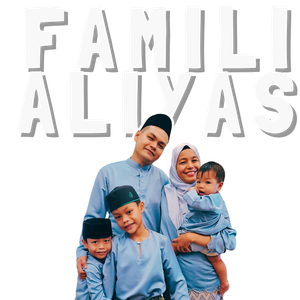
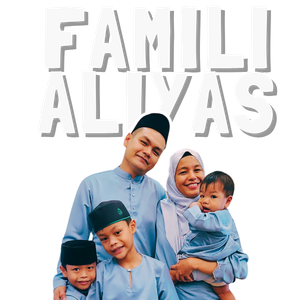
Update CTA section, footer, thumbnail links, and responsive fixes
- Restructure closing CTA: new headline, WhatsApp + Email button cards,
  maroon gradient background matching family photo's outfit colors
- Change footer background to brand deep teal
- Remove "more coming soon" placeholder tile from Interests row
- Link all viral/highlights thumbnails to their Instagram posts
- Fix responsive overflow bugs: platform pills clipping (safe center)
  and donut chart labels not scaling below 360px
- Enlarge hero photo, swap contact-row icons for branded assets
- Reorder Interests row, add bowling reel

diff --git a/index.html b/index.html
@@ -15,6 +15,7 @@
     --teal:#1AADA5;
     --teal-dark:#0F7E78;
     --teal-light:#E0F7F6;
+    --teal-deep:#085041;
     --green:#1D9E75;
     --navy:#1A2A3A;
     --bg:#F4FFFE;
@@ -366,7 +367,7 @@
 
   /* ---------- Contact ---------- */
   .contact{
-    background:linear-gradient(135deg,var(--teal),var(--teal-dark));
+    background:linear-gradient(135deg,#5C1A2E,#8B2942);
     border-radius:24px;
     margin:32px 20px;
     padding:40px 24px 32px;
@@ -384,22 +385,33 @@
     filter:drop-shadow(0 10px 16px rgba(0,0,0,0.3));
   }
   .contact h2{font-size:24px;margin-bottom:20px;}
-  .btn-contact{
+  .contact-label{font-size:15px;font-weight:600;color:var(--white);margin-bottom:12px;}
+  .contact-cards{
+    display:flex;
+    flex-wrap:wrap;
+    gap:12px;
+    justify-content:center;
+  }
+  .contact-card{
     display:inline-flex;
     align-items:center;
+    justify-content:center;
     gap:8px;
+    flex:1 1 140px;
+    max-width:180px;
     background:var(--white);
     color:var(--teal-dark);
     font-weight:600;
     font-size:15px;
-    padding:13px 26px;
+    padding:13px 20px;
     border-radius:999px;
   }
   .whatsapp-icon{width:20px;height:20px;flex-shrink:0;}
+  .email-icon{width:20px;height:20px;flex-shrink:0;}
 
   /* ---------- Footer ---------- */
   footer{
-    background:var(--navy);
+    background:var(--teal-deep);
     color:var(--teal-light);
     text-align:center;
     padding:24px 20px;
@@ -722,14 +734,21 @@
     <div class="polaroid">
       <img src="assets/images/polaroid.png" alt="@FamiliAliyas family polaroid photo" loading="lazy">
     </div>
-    <h2>Let's Build Something Together</h2>
-    <a class="btn-contact" href="https://wa.me/60123454352" target="_blank" rel="noopener">
-      <svg class="whatsapp-icon" viewBox="0 0 24 24" aria-hidden="true">
-        <circle cx="12" cy="12" r="12" fill="#25D366"></circle>
-        <path d="M12 5.5a6.5 6.5 0 0 0-5.6 9.8L5.5 18.5l3.3-.9A6.5 6.5 0 1 0 12 5.5Zm3.8 9.2c-.2.5-1 1-1.4 1-.4 0-.8.1-2.6-.6-2.2-.9-3.6-3.1-3.7-3.3-.1-.1-.9-1.1-.9-2.2s.6-1.5.8-1.8c.2-.2.4-.3.6-.3h.4c.1 0 .3 0 .5.4l.7 1.7c.1.1.1.3 0 .4l-.3.4c-.1.1-.2.3-.1.5.2.4.7 1.1 1.4 1.7.9.8 1.6 1 1.9 1.1.2.1.4.1.5-.1l.5-.6c.2-.2.4-.3.6-.2l1.5.7c.2.1.3.1.4.2.1.2.1.7-.1 1.1Z" fill="#fff"></path>
-      </svg>
-      Contact Us Now
-    </a>
+    <h2>Ready to Feature Your Brand?</h2>
+    <p class="contact-label">Contact Us Now:</p>
+    <div class="contact-cards">
+      <a class="contact-card" href="https://wa.me/60123454352" target="_blank" rel="noopener">
+        <svg class="whatsapp-icon" viewBox="0 0 24 24" aria-hidden="true">
+          <circle cx="12" cy="12" r="12" fill="#25D366"></circle>
+          <path d="M12 5.5a6.5 6.5 0 0 0-5.6 9.8L5.5 18.5l3.3-.9A6.5 6.5 0 1 0 12 5.5Zm3.8 9.2c-.2.5-1 1-1.4 1-.4 0-.8.1-2.6-.6-2.2-.9-3.6-3.1-3.7-3.3-.1-.1-.9-1.1-.9-2.2s.6-1.5.8-1.8c.2-.2.4-.3.6-.3h.4c.1 0 .3 0 .5.4l.7 1.7c.1.1.1.3 0 .4l-.3.4c-.1.1-.2.3-.1.5.2.4.7 1.1 1.4 1.7.9.8 1.6 1 1.9 1.1.2.1.4.1.5-.1l.5-.6c.2-.2.4-.3.6-.2l1.5.7c.2.1.3.1.4.2.1.2.1.7-.1 1.1Z" fill="#fff"></path>
+        </svg>
+        WhatsApp
+      </a>
+      <a class="contact-card" href="mailto:familialiyas.my@gmail.com">
+        <img class="email-icon" src="assets/images/email-icon.png" alt="" loading="lazy">
+        Email
+      </a>
+    </div>
   </section>
 
   <!-- Footer -->
@@ -898,7 +917,7 @@
 
     // ---- Tap/click pulse ----
     (function(){
-      var pulseEls = document.querySelectorAll('.btn-contact, .reel-card, .viral-card .thumb');
+      var pulseEls = document.querySelectorAll('.contact-card, .reel-card, .viral-card .thumb');
       pulseEls.forEach(function(el){
         el.addEventListener('click', function(){
           el.classList.remove('tap-pulse');
